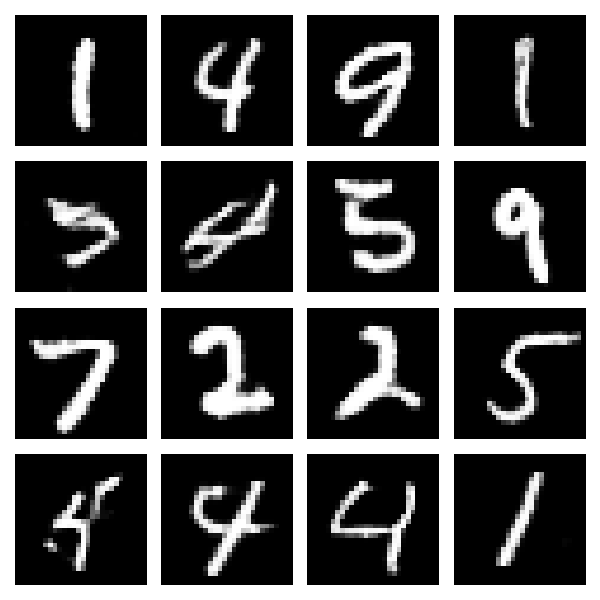
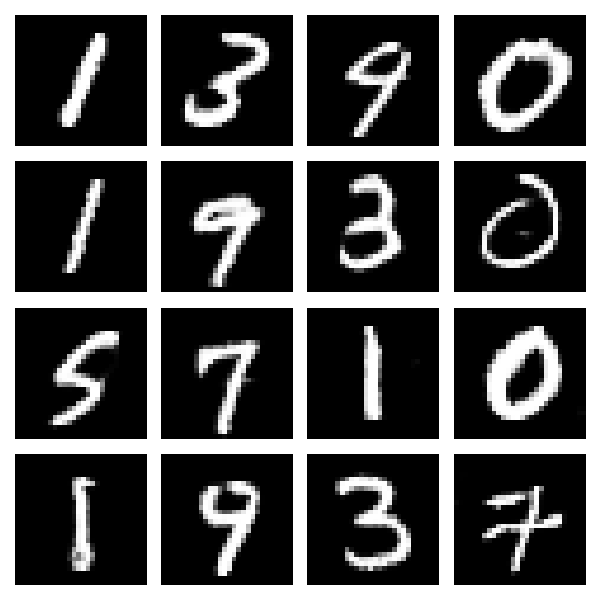
Updated model

diff --git a/RandomHandwrittenDigitsGenerator/training.py b/RandomHandwrittenDigitsGenerator/training.py
@@ -16,7 +16,7 @@ cross_entropy = tf.keras.losses.BinaryCrossentropy(from_logits=True)
 
 # Set the discriminator loss to the sum of the cross entropy of the real and fake classification.
 def discriminator_loss(real_output, fake_output):
-    real_loss = cross_entropy(tf.ones_like(real_output) * 0.9, real_output) # Label smoothing.
+    real_loss = cross_entropy(tf.ones_like(real_output) * 0.95, real_output) # Label smoothing.
     fake_loss = cross_entropy(tf.zeros_like(fake_output), fake_output)
     total_loss = real_loss + fake_loss
     return total_loss
@@ -27,7 +27,7 @@ def generator_loss(fake_output):
 
 # Define both models optimizers.
 generator_optimizer = tf.keras.optimizers.Adam(1e-3)
-discriminator_optimizer = tf.keras.optimizers.Adam(5e-4)
+discriminator_optimizer = tf.keras.optimizers.Adam(1e-3)
 
 # We feed this into the generator after each epoch to track the progress via a gif.
 seed = tf.random.normal([num_examples_to_generate, noise_dim])
@@ -77,18 +77,18 @@ def train(dataset, epochs):
         start = time.time()
 
         # Halve the learning rate every 100 epochs.
-        if (epoch + 1) % 100 == 0:
+        if (epoch + 1) % 75 == 0:
             gen_new_lr = generator_optimizer.learning_rate * 0.5
             generator_optimizer.learning_rate.assign(gen_new_lr)
 
             disc_new_lr = discriminator_optimizer.learning_rate * 0.5
             discriminator_optimizer.learning_rate.assign(disc_new_lr)
-            print(f'\n # Learning rate of generator halved to     {gen_new_lr:.7g} at epoch {epoch + 1}')
-            print(f'\n # Learning rate of discriminator halved to {disc_new_lr:.7g} at epoch {epoch + 1}')
+            print(f'\n # Learning rate of generator halved to     {gen_new_lr:.7g} for epoch {epoch + 1}')
+            print(f'\n # Learning rate of discriminator halved to {disc_new_lr:.7g} for epoch {epoch + 1}')
             
             # Optionally save the models.
-            # generator.save('generator.keras')
-            # discriminator.save('discriminator.keras')
+            generator.save('generator_checkpoint.keras')
+            discriminator.save('discriminator_checkpoint.keras')
 
         # Initialize variables to accumulate losses for this epoch.
         total_gen_loss = 0.0

diff --git a/RandomHandwrittenDigitsGenerator/model.py b/RandomHandwrittenDigitsGenerator/model.py
@@ -13,22 +13,22 @@ def make_generator_model():
     model.add(layers.Reshape((7, 7, 1024)))
     assert model.output_shape == (None, 7, 7, 1024)  # Note: None is the batch size
 
-    model.add(layers.Conv2DTranspose(512, (5, 5), strides=(1, 1), padding='same', use_bias=False))
-    assert model.output_shape == (None, 7, 7, 512)
+    model.add(layers.Conv2DTranspose(512, (5, 5), strides=(2, 2), padding='same', use_bias=False))
+    assert model.output_shape == (None, 14, 14, 512)
     model.add(layers.BatchNormalization())
     model.add(layers.LeakyReLU())
 
     model.add(layers.Conv2DTranspose(256, (5, 5), strides=(2, 2), padding='same', use_bias=False))
-    assert model.output_shape == (None, 14, 14, 256)
+    assert model.output_shape == (None, 28, 28, 256)
     model.add(layers.BatchNormalization())
     model.add(layers.LeakyReLU())
 
     model.add(layers.Conv2DTranspose(128, (5, 5), strides=(1, 1), padding='same', use_bias=False))
-    assert model.output_shape == (None, 14, 14, 128)
+    assert model.output_shape == (None, 28, 28, 128)
     model.add(layers.BatchNormalization())
     model.add(layers.LeakyReLU())
 
-    model.add(layers.Conv2DTranspose(1, (5, 5), strides=(2, 2), padding='same', use_bias=False, activation='tanh'))
+    model.add(layers.Conv2DTranspose(1, (5, 5), strides=(1, 1), padding='same', use_bias=False, activation='tanh'))
     assert model.output_shape == (None, 28, 28, 1)
 
     return model

diff --git a/RandomHandwrittenDigitsGenerator/data.py b/RandomHandwrittenDigitsGenerator/data.py
@@ -9,8 +9,8 @@ import matplotlib.pyplot as plt
 # =================
 BUFFER_SIZE = 60000             # The whole dataset will be considered for shuffling.
 BATCH_SIZE = 512
-EPOCHS = 400
-noise_dim = 200                 # Size of the input noise.
+EPOCHS = 500
+noise_dim = 100                 # Size of the input noise.
 num_examples_to_generate = 16   # Number of images for the gif.
 
 
